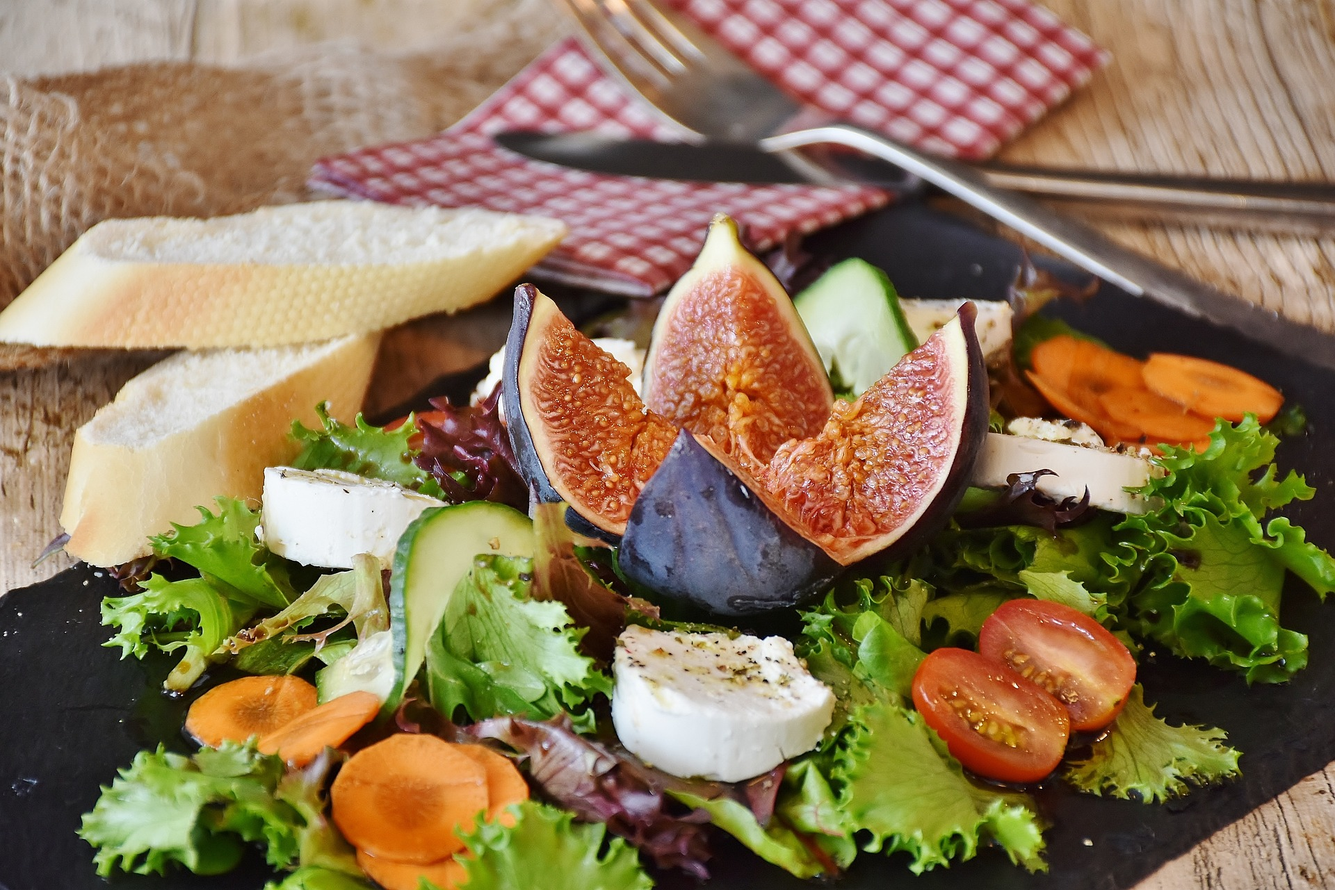
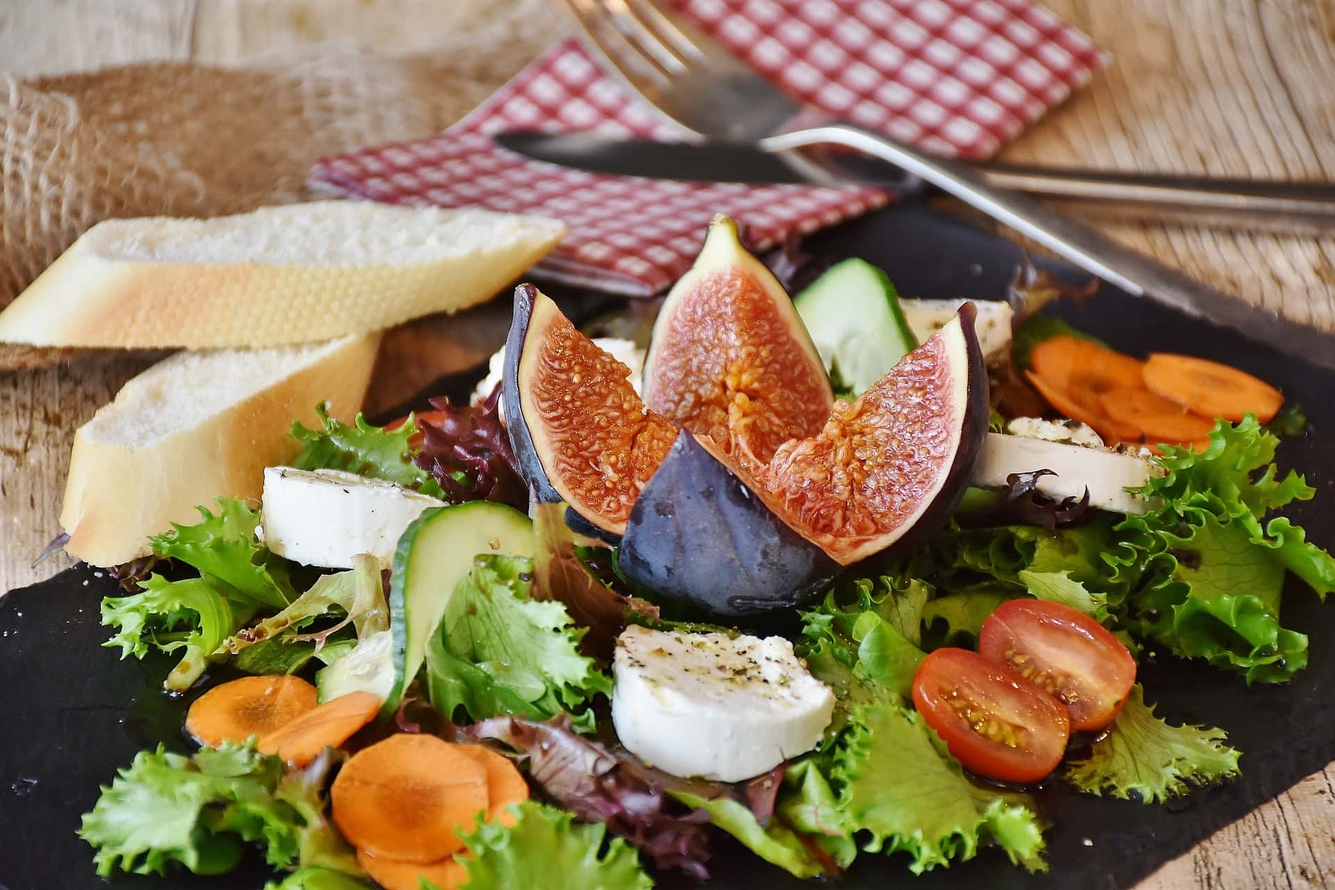
modifique peso de imagenes y agregue meta kw y meta desc

diff --git a/pages/recreacion.html b/pages/recreacion.html
@@ -4,6 +4,8 @@
     <meta charset="UTF-8">
     <meta http-equiv="X-UA-Compatible" content="IE=edge">
     <meta name="viewport" content="width=device-width, initial-scale=1.0">
+    <meta name="keywords" content="recreacion, aire libre, naturaleza,jardines, mariposas, despeje, desconexcion, naturaleza">
+    <meta name="description" content="Nuestro predio de grandes hectarias le permitira descansar y poder disfrutar de la naturaleza. Contamos con diversas actividades.">
     <link rel="shortcut icon" href="img/icono inicio.png">
     <link rel="stylesheet" href="../css/styles.css">
     <link rel="preconnect" href="https://fonts.googleapis.com">
@@ -11,7 +13,7 @@
     <link href="https://fonts.googleapis.com/css2?family=Roboto:ital,wght@0,500;1,100;1,300&display=swap" rel="stylesheet">
     <link href="https://cdn.jsdelivr.net/npm/bootstrap@5.2.2/dist/css/bootstrap.min.css" rel="stylesheet" integrity="sha384-Zenh87qX5JnK2Jl0vWa8Ck2rdkQ2Bzep5IDxbcnCeuOxjzrPF/et3URy9Bv1WTRi" crossorigin="anonymous">
     <link rel="stylesheet" href="../css/styles.css">
-    <title>Recreación</title>
+    <title>La plata | Recreación</title>
 </head>
 <body>
     <div class="recreacion" class="container-fluid">

diff --git a/pages/resto.html b/pages/resto.html
@@ -4,13 +4,15 @@
     <meta charset="UTF-8">
     <meta http-equiv="X-UA-Compatible" content="IE=edge">
     <meta name="viewport" content="width=device-width, initial-scale=1.0">
+    <meta name="keywords" content="comida, mejor comida, calidad, desayuno, almuerzo, cena, resto, restoran">
+    <meta name="description" content="Descubra nuestros mejores platos. Nustros platos son preparados para usted por los mejores chef.">
     <link rel="shortcut icon" href="img/icono inicio.png">
     <link rel="preconnect" href="https://fonts.googleapis.com">
     <link rel="preconnect" href="https://fonts.gstatic.com" crossorigin>
     <link href="https://fonts.googleapis.com/css2?family=Roboto:ital,wght@0,500;1,100;1,300&display=swap" rel="stylesheet">
     <link href="https://cdn.jsdelivr.net/npm/bootstrap@5.2.2/dist/css/bootstrap.min.css" rel="stylesheet" integrity="sha384-Zenh87qX5JnK2Jl0vWa8Ck2rdkQ2Bzep5IDxbcnCeuOxjzrPF/et3URy9Bv1WTRi" crossorigin="anonymous">
     <link rel="stylesheet" href="../css/styles.css">
-    <title>Resto</title>
+    <title>La plata | Resto</title>
 </head>
 <body>
     <div class="contenedor container-fluid .col-12 .col-md-6 .col-lg-3">

diff --git a/pages/hotel.html b/pages/hotel.html
@@ -4,13 +4,15 @@
     <meta charset="UTF-8">
     <meta http-equiv="X-UA-Compatible" content="IE=edge">
     <meta name="viewport" content="width=device-width, initial-scale=1.0">
+    <meta name="keywords" content="habitaciones, mejores habitaciones, descansar, dormir, historia">
+    <meta name="description" content="Contamos con las mejores habitaciones, cada una tiene un diseño unico, pensado en su descanso.">
     <link rel="shortcut icon" href="img/icono inicio.png">
     <link rel="preconnect" href="https://fonts.googleapis.com">
     <link rel="preconnect" href="https://fonts.gstatic.com" crossorigin>
     <link href="https://fonts.googleapis.com/css2?family=Roboto:ital,wght@0,500;1,100;1,300&display=swap" rel="stylesheet">  
     <link href="https://cdn.jsdelivr.net/npm/bootstrap@5.2.2/dist/css/bootstrap.min.css" rel="stylesheet" integrity="sha384-Zenh87qX5JnK2Jl0vWa8Ck2rdkQ2Bzep5IDxbcnCeuOxjzrPF/et3URy9Bv1WTRi" crossorigin="anonymous">
     <link rel="stylesheet" href="../css/styles.css">
-    <title>Hotel</title>
+    <title>La plata | Hotel</title>
 </head>
 <body>
     <div class="grid-habitaciones container-fluid">

diff --git a/pages/reserva.html b/pages/reserva.html
@@ -4,13 +4,15 @@
     <meta charset="UTF-8">
     <meta http-equiv="X-UA-Compatible" content="IE=edge">
     <meta name="viewport" content="width=device-width, initial-scale=1.0">
+    <meta name="keywords" content="reserva, vacaciones, habitaciones, como llegar">
+    <meta name="description" content="Planee con nosotros sus vacaciones o escapade de fin de semana.">
     <link rel="shortcut icon" href="img/icono inicio.png"> 
     <link rel="preconnect" href="https://fonts.googleapis.com">
     <link rel="preconnect" href="https://fonts.gstatic.com" crossorigin>
     <link href="https://fonts.googleapis.com/css2?family=Roboto:ital,wght@0,500;1,100;1,300&display=swap" rel="stylesheet">
     <link href="https://cdn.jsdelivr.net/npm/bootstrap@5.2.2/dist/css/bootstrap.min.css" rel="stylesheet" integrity="sha384-Zenh87qX5JnK2Jl0vWa8Ck2rdkQ2Bzep5IDxbcnCeuOxjzrPF/et3URy9Bv1WTRi" crossorigin="anonymous">
     <link rel="stylesheet" href="../css/styles.css">
-    <title>Reserva</title>
+    <title>La plata | Reserva</title>
 </head>
 <body>
     <div class="contenedor container-fluid .col-12 .col-md-6 .col-lg-3">

diff --git a/index.html b/index.html
@@ -4,13 +4,15 @@
     <meta charset="UTF-8">
     <meta http-equiv="X-UA-Compatible" content="IE=edge">
     <meta name="viewport" content="width=device-width, initial-scale=1.0">
+    <meta name="keywords" content="hotel, resto, restoran, comida, vacaciones, historia">
+    <meta name="description" content="Bienvanido al hotel y resto La Plata. Planee su descanso con nosoros.">
     <link rel="shortcut icon" href="img/icono inicio.png">
     <link rel="preconnect" href="https://fonts.googleapis.com">
     <link rel="preconnect" href="https://fonts.gstatic.com" crossorigin>
     <link href="https://fonts.googleapis.com/css2?family=Roboto:ital,wght@0,500;1,100;1,300&display=swap" rel="stylesheet">
     <link href="https://cdn.jsdelivr.net/npm/bootstrap@5.2.2/dist/css/bootstrap.min.css" rel="stylesheet" integrity="sha384-Zenh87qX5JnK2Jl0vWa8Ck2rdkQ2Bzep5IDxbcnCeuOxjzrPF/et3URy9Bv1WTRi" crossorigin="anonymous">
     <link rel="stylesheet" href="css/styles.css">
-    <title>Inicio</title>
+    <title>La plata | Inicio</title>
 </head>
 <body>
     <div class="grid-container container-fluid" >
